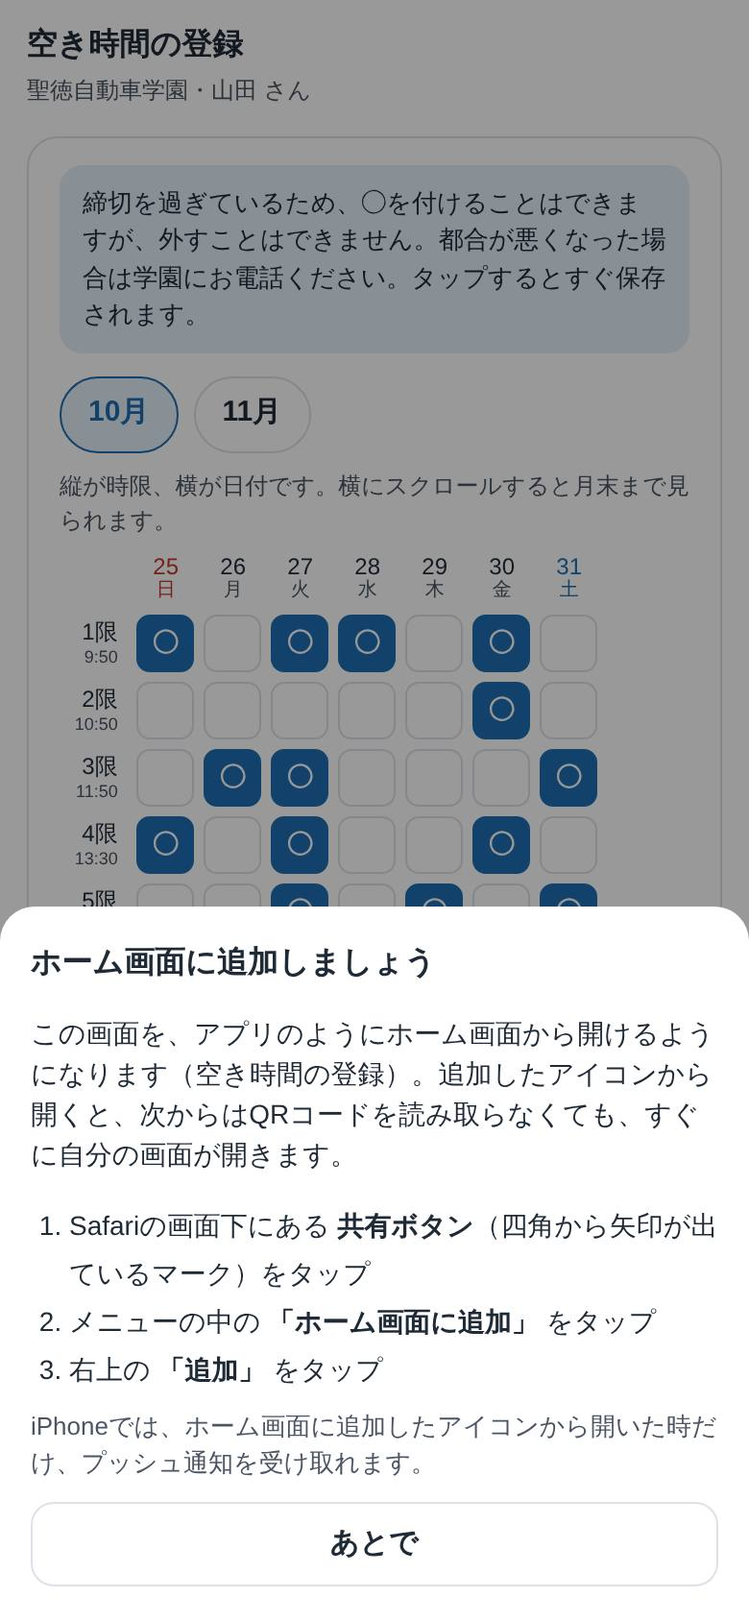
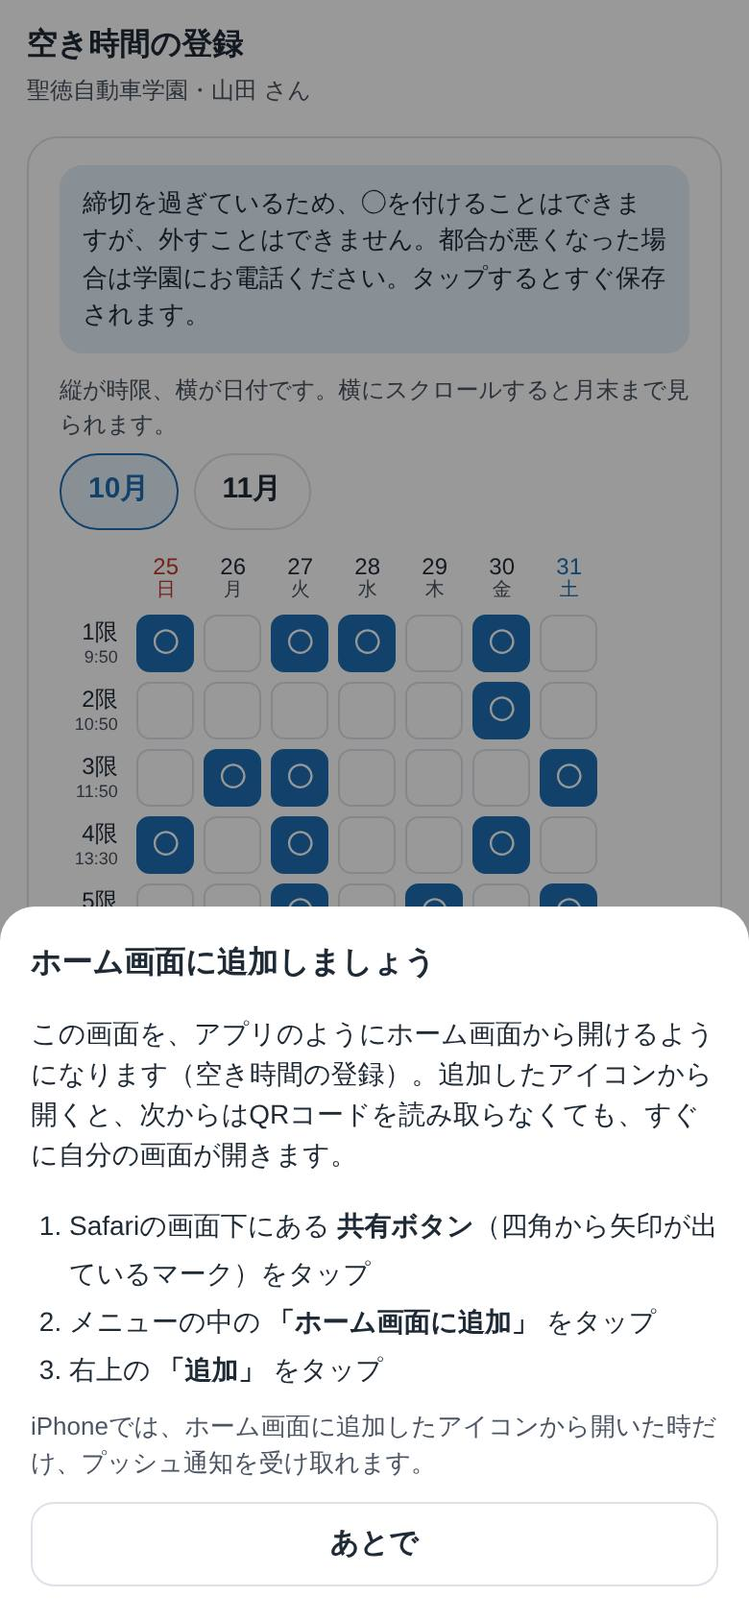
教習生画面の月の切り替えを、空き時間の表のすぐ上に移動（使い方も更新）
Claude-Session: https://claude.ai/code/session_01TFEssVs3Y3zAmrgZUn2J4X

diff --git a/guide-student.html b/guide-student.html
@@ -49,5 +49,5 @@ footer{margin-top:28px;font-size:13px;color:var(--muted)}
 @media print{body{background:#fff}.phone{box-shadow:none}section.step{break-inside:avoid-page}nav.toc{display:none}}
 </style>
 <div class="wrap"><p style="margin:0 0 12px"><a href="javascript:history.back()" style="color:var(--blue);font-weight:700;text-decoration:none">← 前の画面に戻る</a></p><header class="cover"><div class="eyebrow">聖徳自動車学園　空き時間の登録</div><h1>スマホで空き時間を登録する方法</h1><p class="lead">これまで紙で提出していた「予約を入れてよい時間帯」を、スマホで登録します。予約が決まるとスマホに通知が届きます。ログインはいりません。学園で受け取ったQRコードを読み取るだけで、あなた専用の画面が開きます。</p><nav class="toc" aria-label="目次"><a href="#s1">最初にやること</a><a href="#s2">通知をオンにする</a><a href="#s3">空き時間を登録する</a><a href="#s4">アプリを開いた時のお知らせ</a><a href="#s5">予約を確認する</a><a href="#s6">予約をキャンセルしたい時</a><a href="#s7">検定の日</a><a href="#faq">困った時</a></nav></header>
-<section class="step" id="s1"><h2><span class="no">1</span>最初にやること</h2><p>QRコードをスマホのカメラで読み取ると、あなたの画面が開きます。最初に「ホーム画面に追加」をしておくと、次からはアイコンを押すだけで開けます。</p><div class="fig"><div class="phone"><img src="guide/s_install.jpg" alt="画面の例（ホーム画面に追加する手順、あとで）"><div class="mk" style="left:3.3%;top:73.74%;width:93.4%;height:12.74%"><b>1</b></div><div class="mk" style="left:3.3%;top:92.19%;width:93.4%;height:6.07%"><b>2</b></div></div><ol class="notes"><li><b>1</b><div><strong>ホーム画面に追加する手順</strong><span>iPhoneは、Safariの画面下の共有ボタン →「ホーム画面に追加」→「追加」の順に押します。Androidは「ホーム画面に追加する」ボタンが出るので、それを押します。</span></div></li><li><b>2</b><div><strong>あとで</strong><span>あとから追加する時は、画面の下の「設定」にある「ホーム画面に追加」を押すと、この案内がもう一度出ます。</span></div></li></ol></div><div class="tip"><b>QRコードは自分だけのものです</b>QRコードを読み取ると、あなたの画面が開きます。他の人に見せたり、写真を送ったりしないでください。</div></section><section class="step" id="s2"><h2><span class="no">2</span>通知をオンにする</h2><p>予約が決まった時や変更があった時に、スマホに通知が届くようにします。画面の下の「設定」を開いて、「通知の設定」を押してください。</p><div class="fig"><div class="phone"><img src="guide/s_set.jpg" alt="画面の例（画面の明るさ・文字の大きさ、通知・アプリ）"><div class="mk" style="left:7.1%;top:11.15%;width:85.7%;height:15.85%"><b>1</b></div><div class="mk" style="left:7.1%;top:40.65%;width:85.7%;height:25.03%"><b>2</b></div></div><ol class="notes"><li><b>1</b><div><strong>画面の明るさ・文字の大きさ</strong><span>ライト（白い背景）とダーク（黒い背景）、文字の大きさを選べます。</span></div></li><li><b>2</b><div><strong>通知・アプリ</strong><span>「通知の設定」で通知をオンにします。「ホーム画面に追加」もここからできます。</span></div></li></ol></div><div class="fig"><div class="phone"><img src="guide/s_push.jpg" alt="画面の例（iPhoneの方へ、通知を受け取る）"><div class="mk" style="left:3.3%;top:75.25%;width:93.4%;height:10.10%"><b>1</b></div><div class="mk" style="left:3.3%;top:85.97%;width:93.4%;height:6.07%"><b>2</b></div></div><ol class="notes"><li><b>1</b><div><strong>iPhoneの方へ</strong><span>iPhoneは、ホーム画面に追加したアイコンから開いた時だけ通知を受け取れます。先に「1 最初にやること」を済ませてください。</span></div></li><li><b>2</b><div><strong>通知を受け取る</strong><span>押すと「通知を許可しますか？」と聞かれるので、「許可」を選びます。</span></div></li></ol></div></section><section class="step" id="s3"><h2><span class="no">3</span>空き時間を登録する</h2><p>画面の下の「空き時間の登録」で、教習を受けられる時間帯に◯を付けます。タップするとすぐに保存されるので、保存ボタンはありません。</p><div class="fig"><div class="phone"><img src="guide/s_cal.jpg" alt="画面の例（締切のお知らせ、月の切り替え、マスをタップして◯を付ける、画面の切り替え）"><div class="mk" style="left:7.1%;top:9.73%;width:85.7%;height:12.41%"><b>1</b></div><div class="mk" style="left:7.1%;top:22.76%;width:85.7%;height:5.54%"><b>2</b></div><div class="mk" style="left:7.9%;top:45.67%;width:92.4%;height:4.59%"><b>3</b></div><div class="mk" style="left:-0.3%;top:92.73%;width:100.6%;height:7.17%"><b>4</b></div></div><ol class="notes"><li><b>1</b><div><strong>締切のお知らせ</strong><span>次の月の分は、毎月20日が入力の締切です（人によって締切日が違うことがあります。ここに出ている日付が、あなたの締切です）。締切までは何度でも変更できます。</span></div></li><li><b>2</b><div><strong>月の切り替え</strong><span>今月と来月を切り替えます。</span></div></li><li><b>3</b><div><strong>マスをタップして◯を付ける</strong><span>縦が時限（1〜10限）、横が日付です。横にスクロールすると月末まで見られます。空いている時間帯をタップすると「○月○日 ○限に◯を付けますか？」と出るので、「OK」を押すと◯が付きます（間違えて触っても付かないように確認が出ます）。◯をもう一度タップすると外れます。</span></div></li><li><b>4</b><div><strong>画面の切り替え</strong><span>画面の下のタブで、「空き時間の登録」「教習の進み具合」「お知らせ」「設定」を切り替えます。いつも表示されています。「お知らせ」では、アプリを開いた時に出たお知らせを、あとから見直せます。</span></div></li></ol></div><div class="fig"><div class="phone"><img src="guide/s_add.jpg" alt="画面の例（確認の文、OK、やめる）"><div class="mk" style="left:3.3%;top:84.61%;width:93.4%;height:6.49%"><b>1</b></div><div class="mk" style="left:50.2%;top:92.19%;width:46.5%;height:6.07%"><b>2</b></div><div class="mk" style="left:3.3%;top:92.19%;width:46.5%;height:6.07%"><b>3</b></div></div><ol class="notes"><li><b>1</b><div><strong>確認の文</strong><span>◯を付けようとした日付と時限が出ます。</span></div></li><li><b>2</b><div><strong>OK</strong><span>押すと◯が付きます。</span></div></li><li><b>3</b><div><strong>やめる</strong><span>◯を付けずに戻ります。</span></div></li></ol></div><div class="fig"><div class="phone part"><img src="guide/s_cal2.jpg" alt="画面の例（色の見方、今月と同じにする、曜日でまとめて選ぶ）"><div class="mk" style="left:7.1%;top:71.60%;width:85.7%;height:10.40%"><b>1</b></div><div class="mk" style="left:7.1%;top:83.20%;width:42.6%;height:14.20%"><b>2</b></div><div class="mk" style="left:50.2%;top:83.20%;width:42.6%;height:14.20%"><b>3</b></div></div><ol class="notes"><li><b>1</b><div><strong>色の見方</strong><span>青い◯は空いている時間、オレンジの「予」は予約が入った時間です。</span></div></li><li><b>2</b><div><strong>今月と同じにする</strong><span>今月の◯の付け方（曜日ごと）を、来月にそのまま写します。</span></div></li><li><b>3</b><div><strong>曜日でまとめて選ぶ</strong><span>「毎週土曜の1・2限」のように、まとめて◯を付けられます。</span></div></li></ol></div><div class="fig"><div class="phone"><img src="guide/s_bulk.jpg" alt="画面の例（曜日を選ぶ、時限を選ぶ、◯を付ける）"><div class="mk" style="left:3.3%;top:69.03%;width:93.4%;height:6.49%"><b>1</b></div><div class="mk" style="left:3.3%;top:78.92%;width:93.4%;height:12.41%"><b>2</b></div><div class="mk" style="left:50.2%;top:92.19%;width:46.5%;height:6.07%"><b>3</b></div></div><ol class="notes"><li><b>1</b><div><strong>曜日を選ぶ</strong><span>◯を付けたい曜日を選びます。いくつでも選べます。</span></div></li><li><b>2</b><div><strong>時限を選ぶ</strong><span>◯を付けたい時限を選びます。</span></div></li><li><b>3</b><div><strong>◯を付ける</strong><span>選んだ曜日と時限のマスに、まとめて◯が付きます。</span></div></li></ol></div><div class="tip warn"><b>締切を過ぎたら</b>◯を付けることはできますが、外すことはできません（指導員が予約を組んでいる途中のためです）。都合が悪くなった時は、学園に電話してください。電話番号：<span class="tel">058-387-4171</span></div></section><section class="step" id="s4"><h2><span class="no">4</span>アプリを開いた時のお知らせ</h2><p>アプリを開くたびに、画面の真ん中にお知らせが出ます。次の教習の日と時限が書いてあるので、必ず確認してください。アプリを開いたままでも、予約が決まったり変わったりすると、その場でお知らせが出ます。</p><div class="fig"><div class="phone"><img src="guide/s_notice.jpg" alt="画面の例（お知らせ、あいさつ、次の教習の予定、確認しました、OK）"><div class="mk" style="left:7.4%;top:20.75%;width:85.2%;height:8.62%"><b>1</b></div><div class="mk" style="left:7.4%;top:29.28%;width:85.2%;height:3.82%"><b>2</b></div><div class="mk" style="left:7.4%;top:34.20%;width:85.2%;height:6.49%"><b>3</b></div><div class="mk" style="left:7.4%;top:65.60%;width:85.2%;height:6.72%"><b>4</b></div><div class="mk" style="left:7.4%;top:72.94%;width:85.2%;height:6.07%"><b>5</b></div></div><ol class="notes"><li><b>1</b><div><strong>お知らせ</strong><span>学園のマークの下に「お知らせ」と出ます。</span></div></li><li><b>2</b><div><strong>あいさつ</strong><span>時間によって「おはようございます！」「こんにちは！」「こんばんは！」に変わります。</span></div></li><li><b>3</b><div><strong>次の教習の予定</strong><span>次の教習の日と時限です。同じ日に2つ以上ある時は「2時限目と3時限目」のように、まとめて出ます。危険予測や高速教習は「（2時限連続）」のように出ます。</span></div></li><li><b>4</b><div><strong>確認しました</strong><span>内容を確認したら、ここにチェックを付けます。チェックを付けないと「OK」は押せません。</span></div></li><li><b>5</b><div><strong>OK</strong><span>押すと閉じます。指導員の画面にも「確認済」と表示されます。</span></div></li></ol></div><div class="tip"><b>予約がまだ無い時</b>「次の教習の予定は、まだ決まっていません」と出ます。「OK」を押して閉じてください。</div><div class="tip"><b>これまでのお知らせ</b>画面の下の「お知らせ」タブで、アプリを開いた時に出たお知らせを、あとから新しい順に見直せます（その端末に残ります）。</div></section><section class="step" id="s5"><h2><span class="no">5</span>予約を確認する</h2><p>指導員が予約を決めると通知が届きます。画面の下の「教習の進み具合」で内容を確認してください。</p><div class="fig"><div class="phone"><img src="guide/s_book.jpg" alt="画面の例（進み具合、これからの予約、確認しました）"><div class="mk" style="left:7.1%;top:18.97%;width:85.7%;height:14.60%"><b>1</b></div><div class="mk" style="left:7.1%;top:37.63%;width:85.7%;height:33.26%"><b>2</b></div><div class="mk" style="left:7.1%;top:71.52%;width:85.7%;height:6.07%"><b>3</b></div></div><ol class="notes"><li><b>1</b><div><strong>進み具合</strong><span>今の段階で受けた時限数と、最低教習時限（第1段階12時限、第2段階19時限）までのあと何時限かが分かります。</span></div></li><li><b>2</b><div><strong>これからの予約</strong><span>日付・時限・時間と、何時限目の教習かが出ます。</span></div></li><li><b>3</b><div><strong>確認しました</strong><span>予約を見たら必ず押してください。押さないと、指導員から確認の連絡が来ることがあります。アプリを開いた時のお知らせで「確認しました」にチェックを付けて「OK」を押しても確認済みになります。</span></div></li></ol></div><div class="tip"><b>正式な予定はこの画面です</b>通知はお知らせです。予定はこの画面の表示を見てください。</div></section><section class="step" id="s6"><h2><span class="no">6</span>予約をキャンセルしたい時</h2><p>「空き時間の登録」のカレンダーで、予約が入っているマス（オレンジの「予」）を押します。</p><div class="fig"><div class="phone"><img src="guide/s_locked.jpg" alt="画面の例（予約が入っているマス）"><div class="mk" style="left:62.4%;top:27.42%;width:9.3%;height:4.35%"><b>1</b></div></div><ol class="notes"><li><b>1</b><div><strong>予約が入っているマス</strong><span>予約済みのマスは、自分では外せません。押すと次の画面が出ます。</span></div></li></ol></div><div class="fig"><div class="phone"><img src="guide/s_cancel.jpg" alt="画面の例（キャンセル希望を送る、学園に電話する）"><div class="mk" style="left:3.3%;top:79.81%;width:93.4%;height:6.07%"><b>1</b></div><div class="mk" style="left:3.3%;top:86.03%;width:93.4%;height:6.01%"><b>2</b></div></div><ol class="notes"><li><b>1</b><div><strong>キャンセル希望を送る</strong><span>指導員にキャンセルの希望が届きます。指導員が承認すると、通知でお知らせします。承認されるまでは予約のままです。</span></div></li><li><b>2</b><div><strong>学園に電話する</strong><span>急ぎの時は電話してください。電話番号：<span class="tel">058-387-4171</span></span></div></li></ol></div></section><section class="step" id="s7"><h2><span class="no">7</span>検定の日</h2><p>みきわめに合格すると、「教習の進み具合」に検定日が出ます。検定日の当日は、朝に通知が届き、画面にもお知らせが出ます。</p><div class="fig"><div class="phone part"><img src="guide/s_kentei.jpg" alt="画面の例（検定日のお知らせ）"><div class="mk" style="left:2.8%;top:40.96%;width:94.4%;height:28.68%"><b>1</b></div></div><ol class="notes"><li><b>1</b><div><strong>検定日のお知らせ</strong><span>これまでに教わった事をよく思い出して、頑張ってください。</span></div></li></ol></div></section><section class="step" id="faq"><h2><span class="no">？</span>困った時は</h2><div class="faq"><div><strong>画面が開かない・読み込み中のまま</strong><span>LINEなどのアプリの中で開くと動かないことがあります。Safari（iPhone）か Chrome（Android）で開き直してください。それでもだめな時は、スマホのOSとブラウザを最新にしてください。</span></div><div><strong>QRコードをなくした・スマホを替えた</strong><span>担当の指導員に伝えてください。新しいQRコードを出してもらえます。登録した空き時間や予約はそのまま残ります。</span></div><div><strong>通知が来ない</strong><span>画面の下の「設定」→「通知の設定」で「通知を受け取る」を押したか確認してください。iPhoneはホーム画面のアイコンから開いて設定する必要があります。</span></div><div><strong>◯を外したいのに外せない</strong><span>締切（ふつうは毎月20日）を過ぎると外せません。今月の分も、締切を過ぎているので外せません。学園に電話してください。<span class="tel">058-387-4171</span></span></div></div></section>
+<section class="step" id="s1"><h2><span class="no">1</span>最初にやること</h2><p>QRコードをスマホのカメラで読み取ると、あなたの画面が開きます。最初に「ホーム画面に追加」をしておくと、次からはアイコンを押すだけで開けます。</p><div class="fig"><div class="phone"><img src="guide/s_install.jpg" alt="画面の例（ホーム画面に追加する手順、あとで）"><div class="mk" style="left:3.3%;top:73.74%;width:93.4%;height:12.74%"><b>1</b></div><div class="mk" style="left:3.3%;top:92.19%;width:93.4%;height:6.07%"><b>2</b></div></div><ol class="notes"><li><b>1</b><div><strong>ホーム画面に追加する手順</strong><span>iPhoneは、Safariの画面下の共有ボタン →「ホーム画面に追加」→「追加」の順に押します。Androidは「ホーム画面に追加する」ボタンが出るので、それを押します。</span></div></li><li><b>2</b><div><strong>あとで</strong><span>あとから追加する時は、画面の下の「設定」にある「ホーム画面に追加」を押すと、この案内がもう一度出ます。</span></div></li></ol></div><div class="tip"><b>QRコードは自分だけのものです</b>QRコードを読み取ると、あなたの画面が開きます。他の人に見せたり、写真を送ったりしないでください。</div></section><section class="step" id="s2"><h2><span class="no">2</span>通知をオンにする</h2><p>予約が決まった時や変更があった時に、スマホに通知が届くようにします。画面の下の「設定」を開いて、「通知の設定」を押してください。</p><div class="fig"><div class="phone"><img src="guide/s_set.jpg" alt="画面の例（画面の明るさ・文字の大きさ、通知・アプリ）"><div class="mk" style="left:7.1%;top:11.15%;width:85.7%;height:15.85%"><b>1</b></div><div class="mk" style="left:7.1%;top:40.65%;width:85.7%;height:25.03%"><b>2</b></div></div><ol class="notes"><li><b>1</b><div><strong>画面の明るさ・文字の大きさ</strong><span>ライト（白い背景）とダーク（黒い背景）、文字の大きさを選べます。</span></div></li><li><b>2</b><div><strong>通知・アプリ</strong><span>「通知の設定」で通知をオンにします。「ホーム画面に追加」もここからできます。</span></div></li></ol></div><div class="fig"><div class="phone"><img src="guide/s_push.jpg" alt="画面の例（iPhoneの方へ、通知を受け取る）"><div class="mk" style="left:3.3%;top:75.25%;width:93.4%;height:10.10%"><b>1</b></div><div class="mk" style="left:3.3%;top:85.97%;width:93.4%;height:6.07%"><b>2</b></div></div><ol class="notes"><li><b>1</b><div><strong>iPhoneの方へ</strong><span>iPhoneは、ホーム画面に追加したアイコンから開いた時だけ通知を受け取れます。先に「1 最初にやること」を済ませてください。</span></div></li><li><b>2</b><div><strong>通知を受け取る</strong><span>押すと「通知を許可しますか？」と聞かれるので、「許可」を選びます。</span></div></li></ol></div></section><section class="step" id="s3"><h2><span class="no">3</span>空き時間を登録する</h2><p>画面の下の「空き時間の登録」で、教習を受けられる時間帯に◯を付けます。タップするとすぐに保存されるので、保存ボタンはありません。</p><div class="fig"><div class="phone"><img src="guide/s_cal.jpg" alt="画面の例（締切のお知らせ、月の切り替え、マスをタップして◯を付ける、画面の切り替え）"><div class="mk" style="left:7.1%;top:9.73%;width:85.7%;height:12.41%"><b>1</b></div><div class="mk" style="left:7.1%;top:27.50%;width:85.7%;height:5.54%"><b>2</b></div><div class="mk" style="left:7.9%;top:45.67%;width:92.4%;height:4.59%"><b>3</b></div><div class="mk" style="left:-0.3%;top:92.73%;width:100.6%;height:7.17%"><b>4</b></div></div><ol class="notes"><li><b>1</b><div><strong>締切のお知らせ</strong><span>次の月の分は、毎月20日が入力の締切です（人によって締切日が違うことがあります。ここに出ている日付が、あなたの締切です）。締切までは何度でも変更できます。</span></div></li><li><b>2</b><div><strong>月の切り替え</strong><span>今月と来月を切り替えます。</span></div></li><li><b>3</b><div><strong>マスをタップして◯を付ける</strong><span>縦が時限（1〜10限）、横が日付です。横にスクロールすると月末まで見られます。空いている時間帯をタップすると「○月○日 ○限に◯を付けますか？」と出るので、「OK」を押すと◯が付きます（間違えて触っても付かないように確認が出ます）。◯をもう一度タップすると外れます。</span></div></li><li><b>4</b><div><strong>画面の切り替え</strong><span>画面の下のタブで、「空き時間の登録」「教習の進み具合」「お知らせ」「設定」を切り替えます。いつも表示されています。「お知らせ」では、アプリを開いた時に出たお知らせを、あとから見直せます。</span></div></li></ol></div><div class="fig"><div class="phone"><img src="guide/s_add.jpg" alt="画面の例（確認の文、OK、やめる）"><div class="mk" style="left:3.3%;top:84.61%;width:93.4%;height:6.49%"><b>1</b></div><div class="mk" style="left:50.2%;top:92.19%;width:46.5%;height:6.07%"><b>2</b></div><div class="mk" style="left:3.3%;top:92.19%;width:46.5%;height:6.07%"><b>3</b></div></div><ol class="notes"><li><b>1</b><div><strong>確認の文</strong><span>◯を付けようとした日付と時限が出ます。</span></div></li><li><b>2</b><div><strong>OK</strong><span>押すと◯が付きます。</span></div></li><li><b>3</b><div><strong>やめる</strong><span>◯を付けずに戻ります。</span></div></li></ol></div><div class="fig"><div class="phone part"><img src="guide/s_cal2.jpg" alt="画面の例（色の見方、今月と同じにする、曜日でまとめて選ぶ）"><div class="mk" style="left:7.1%;top:71.60%;width:85.7%;height:10.40%"><b>1</b></div><div class="mk" style="left:7.1%;top:83.20%;width:42.6%;height:14.20%"><b>2</b></div><div class="mk" style="left:50.2%;top:83.20%;width:42.6%;height:14.20%"><b>3</b></div></div><ol class="notes"><li><b>1</b><div><strong>色の見方</strong><span>青い◯は空いている時間、オレンジの「予」は予約が入った時間です。</span></div></li><li><b>2</b><div><strong>今月と同じにする</strong><span>今月の◯の付け方（曜日ごと）を、来月にそのまま写します。</span></div></li><li><b>3</b><div><strong>曜日でまとめて選ぶ</strong><span>「毎週土曜の1・2限」のように、まとめて◯を付けられます。</span></div></li></ol></div><div class="fig"><div class="phone"><img src="guide/s_bulk.jpg" alt="画面の例（曜日を選ぶ、時限を選ぶ、◯を付ける）"><div class="mk" style="left:3.3%;top:69.03%;width:93.4%;height:6.49%"><b>1</b></div><div class="mk" style="left:3.3%;top:78.92%;width:93.4%;height:12.41%"><b>2</b></div><div class="mk" style="left:50.2%;top:92.19%;width:46.5%;height:6.07%"><b>3</b></div></div><ol class="notes"><li><b>1</b><div><strong>曜日を選ぶ</strong><span>◯を付けたい曜日を選びます。いくつでも選べます。</span></div></li><li><b>2</b><div><strong>時限を選ぶ</strong><span>◯を付けたい時限を選びます。</span></div></li><li><b>3</b><div><strong>◯を付ける</strong><span>選んだ曜日と時限のマスに、まとめて◯が付きます。</span></div></li></ol></div><div class="tip warn"><b>締切を過ぎたら</b>◯を付けることはできますが、外すことはできません（指導員が予約を組んでいる途中のためです）。都合が悪くなった時は、学園に電話してください。電話番号：<span class="tel">058-387-4171</span></div></section><section class="step" id="s4"><h2><span class="no">4</span>アプリを開いた時のお知らせ</h2><p>アプリを開くたびに、画面の真ん中にお知らせが出ます。次の教習の日と時限が書いてあるので、必ず確認してください。アプリを開いたままでも、予約が決まったり変わったりすると、その場でお知らせが出ます。</p><div class="fig"><div class="phone"><img src="guide/s_notice.jpg" alt="画面の例（お知らせ、あいさつ、次の教習の予定、確認しました、OK）"><div class="mk" style="left:7.4%;top:20.75%;width:85.2%;height:8.62%"><b>1</b></div><div class="mk" style="left:7.4%;top:29.28%;width:85.2%;height:3.82%"><b>2</b></div><div class="mk" style="left:7.4%;top:34.20%;width:85.2%;height:6.49%"><b>3</b></div><div class="mk" style="left:7.4%;top:65.60%;width:85.2%;height:6.72%"><b>4</b></div><div class="mk" style="left:7.4%;top:72.94%;width:85.2%;height:6.07%"><b>5</b></div></div><ol class="notes"><li><b>1</b><div><strong>お知らせ</strong><span>学園のマークの下に「お知らせ」と出ます。</span></div></li><li><b>2</b><div><strong>あいさつ</strong><span>時間によって「おはようございます！」「こんにちは！」「こんばんは！」に変わります。</span></div></li><li><b>3</b><div><strong>次の教習の予定</strong><span>次の教習の日と時限です。同じ日に2つ以上ある時は「2時限目と3時限目」のように、まとめて出ます。危険予測や高速教習は「（2時限連続）」のように出ます。</span></div></li><li><b>4</b><div><strong>確認しました</strong><span>内容を確認したら、ここにチェックを付けます。チェックを付けないと「OK」は押せません。</span></div></li><li><b>5</b><div><strong>OK</strong><span>押すと閉じます。指導員の画面にも「確認済」と表示されます。</span></div></li></ol></div><div class="tip"><b>予約がまだ無い時</b>「次の教習の予定は、まだ決まっていません」と出ます。「OK」を押して閉じてください。</div><div class="tip"><b>これまでのお知らせ</b>画面の下の「お知らせ」タブで、アプリを開いた時に出たお知らせを、あとから新しい順に見直せます（その端末に残ります）。</div></section><section class="step" id="s5"><h2><span class="no">5</span>予約を確認する</h2><p>指導員が予約を決めると通知が届きます。画面の下の「教習の進み具合」で内容を確認してください。</p><div class="fig"><div class="phone"><img src="guide/s_book.jpg" alt="画面の例（進み具合、これからの予約、確認しました）"><div class="mk" style="left:7.1%;top:18.97%;width:85.7%;height:14.60%"><b>1</b></div><div class="mk" style="left:7.1%;top:37.63%;width:85.7%;height:33.26%"><b>2</b></div><div class="mk" style="left:7.1%;top:71.52%;width:85.7%;height:6.07%"><b>3</b></div></div><ol class="notes"><li><b>1</b><div><strong>進み具合</strong><span>今の段階で受けた時限数と、最低教習時限（第1段階12時限、第2段階19時限）までのあと何時限かが分かります。</span></div></li><li><b>2</b><div><strong>これからの予約</strong><span>日付・時限・時間と、何時限目の教習かが出ます。</span></div></li><li><b>3</b><div><strong>確認しました</strong><span>予約を見たら必ず押してください。押さないと、指導員から確認の連絡が来ることがあります。アプリを開いた時のお知らせで「確認しました」にチェックを付けて「OK」を押しても確認済みになります。</span></div></li></ol></div><div class="tip"><b>正式な予定はこの画面です</b>通知はお知らせです。予定はこの画面の表示を見てください。</div></section><section class="step" id="s6"><h2><span class="no">6</span>予約をキャンセルしたい時</h2><p>「空き時間の登録」のカレンダーで、予約が入っているマス（オレンジの「予」）を押します。</p><div class="fig"><div class="phone"><img src="guide/s_locked.jpg" alt="画面の例（予約が入っているマス）"><div class="mk" style="left:62.4%;top:27.42%;width:9.3%;height:4.35%"><b>1</b></div></div><ol class="notes"><li><b>1</b><div><strong>予約が入っているマス</strong><span>予約済みのマスは、自分では外せません。押すと次の画面が出ます。</span></div></li></ol></div><div class="fig"><div class="phone"><img src="guide/s_cancel.jpg" alt="画面の例（キャンセル希望を送る、学園に電話する）"><div class="mk" style="left:3.3%;top:79.81%;width:93.4%;height:6.07%"><b>1</b></div><div class="mk" style="left:3.3%;top:86.03%;width:93.4%;height:6.01%"><b>2</b></div></div><ol class="notes"><li><b>1</b><div><strong>キャンセル希望を送る</strong><span>指導員にキャンセルの希望が届きます。指導員が承認すると、通知でお知らせします。承認されるまでは予約のままです。</span></div></li><li><b>2</b><div><strong>学園に電話する</strong><span>急ぎの時は電話してください。電話番号：<span class="tel">058-387-4171</span></span></div></li></ol></div></section><section class="step" id="s7"><h2><span class="no">7</span>検定の日</h2><p>みきわめに合格すると、「教習の進み具合」に検定日が出ます。検定日の当日は、朝に通知が届き、画面にもお知らせが出ます。</p><div class="fig"><div class="phone part"><img src="guide/s_kentei.jpg" alt="画面の例（検定日のお知らせ）"><div class="mk" style="left:2.8%;top:40.96%;width:94.4%;height:28.68%"><b>1</b></div></div><ol class="notes"><li><b>1</b><div><strong>検定日のお知らせ</strong><span>これまでに教わった事をよく思い出して、頑張ってください。</span></div></li></ol></div></section><section class="step" id="faq"><h2><span class="no">？</span>困った時は</h2><div class="faq"><div><strong>画面が開かない・読み込み中のまま</strong><span>LINEなどのアプリの中で開くと動かないことがあります。Safari（iPhone）か Chrome（Android）で開き直してください。それでもだめな時は、スマホのOSとブラウザを最新にしてください。</span></div><div><strong>QRコードをなくした・スマホを替えた</strong><span>担当の指導員に伝えてください。新しいQRコードを出してもらえます。登録した空き時間や予約はそのまま残ります。</span></div><div><strong>通知が来ない</strong><span>画面の下の「設定」→「通知の設定」で「通知を受け取る」を押したか確認してください。iPhoneはホーム画面のアイコンから開いて設定する必要があります。</span></div><div><strong>◯を外したいのに外せない</strong><span>締切（ふつうは毎月20日）を過ぎると外せません。今月の分も、締切を過ぎているので外せません。学園に電話してください。<span class="tel">058-387-4171</span></span></div></div></section>
 <footer>画面の名前や日付は説明用の見本です。分からないことは担当の指導員か、学園の事務所に聞いてください。</footer></div>

diff --git a/js/student.js b/js/student.js
@@ -175,11 +175,12 @@ function renderCal() {
   else if (open) h += `<div class="banner warn"><b>${m}月分の入力締切は${dlText(ym)}です。</b><br>空いている時間帯をタップして◯を付けてください。</div>`;
   else if (S.mi === 1 && !filled) h += `<div class="banner warn"><b>${m}月分の入力締切（${dlText(ym)}）を過ぎています。</b><br>空いている時間帯をタップして◯を付けてください。</div>`;
   else h += `<div class="banner info">${lockedNote()}タップするとすぐ保存されます。</div>`;
-  h += `<div class="months">${MONTHS.map((x, i) => `<button class="chip" aria-pressed="${S.mi === i}" data-act="month" data-v="${i}">${x.m}月</button>`).join("")}</div>`;
   // 縦が時限、横が日付（日付が多いので横にスクロール。時限の列は左に固定）
   const start = S.mi === 0 ? now.getDate() : 1;
   const dl = []; for (let d = start; d <= daysIn(y, m); d++) dl.push(d);
   h += `<div class="calhint">縦が時限、横が日付です。横にスクロールすると月末まで見られます。</div>`;
+  // 月の切り替えは、表のすぐ上に出す（指導員画面の週の切り替えと同じ位置。依頼者指定）
+  h += `<div class="months">${MONTHS.map((x, i) => `<button class="chip" aria-pressed="${S.mi === i}" data-act="month" data-v="${i}">${x.m}月</button>`).join("")}</div>`;
   h += `<div class="gridwrap calwrap"><table class="cal calt"><thead><tr><th class="pl"></th>`;
   dl.forEach(d => { const w = new Date(y, m - 1, d).getDay(); h += `<th scope="col" class="day ${w === 6 ? "sat" : w === 0 ? "sun" : ""}">${d}<small>${WD[w]}</small></th>`; });
   h += `</tr></thead><tbody>`;
